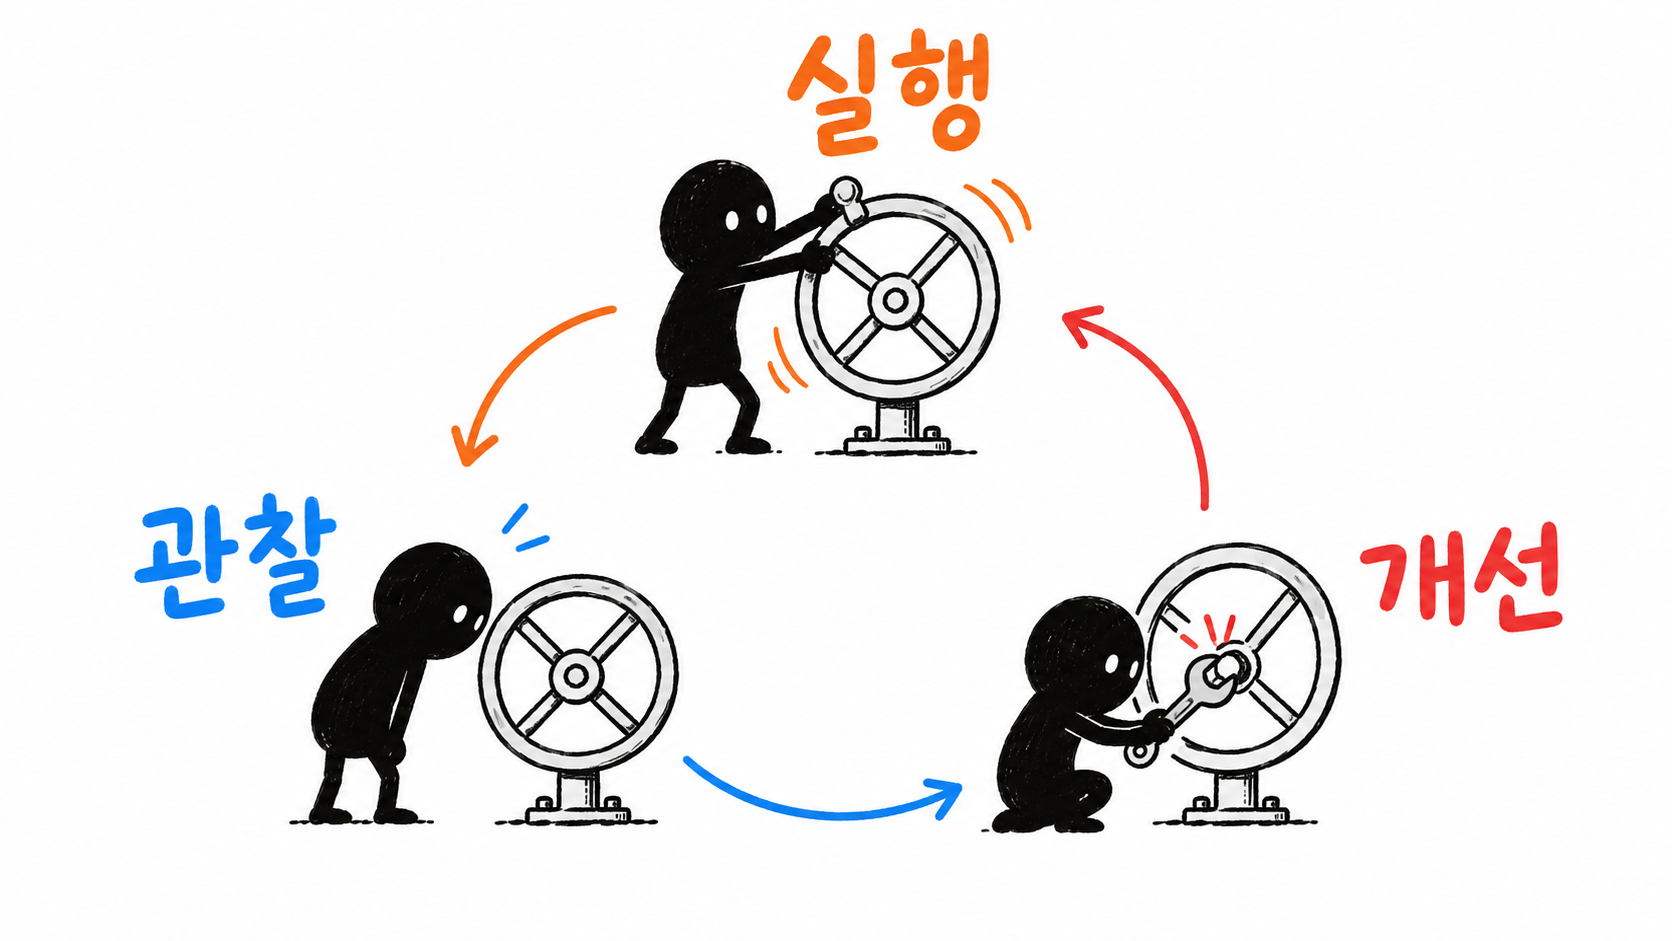
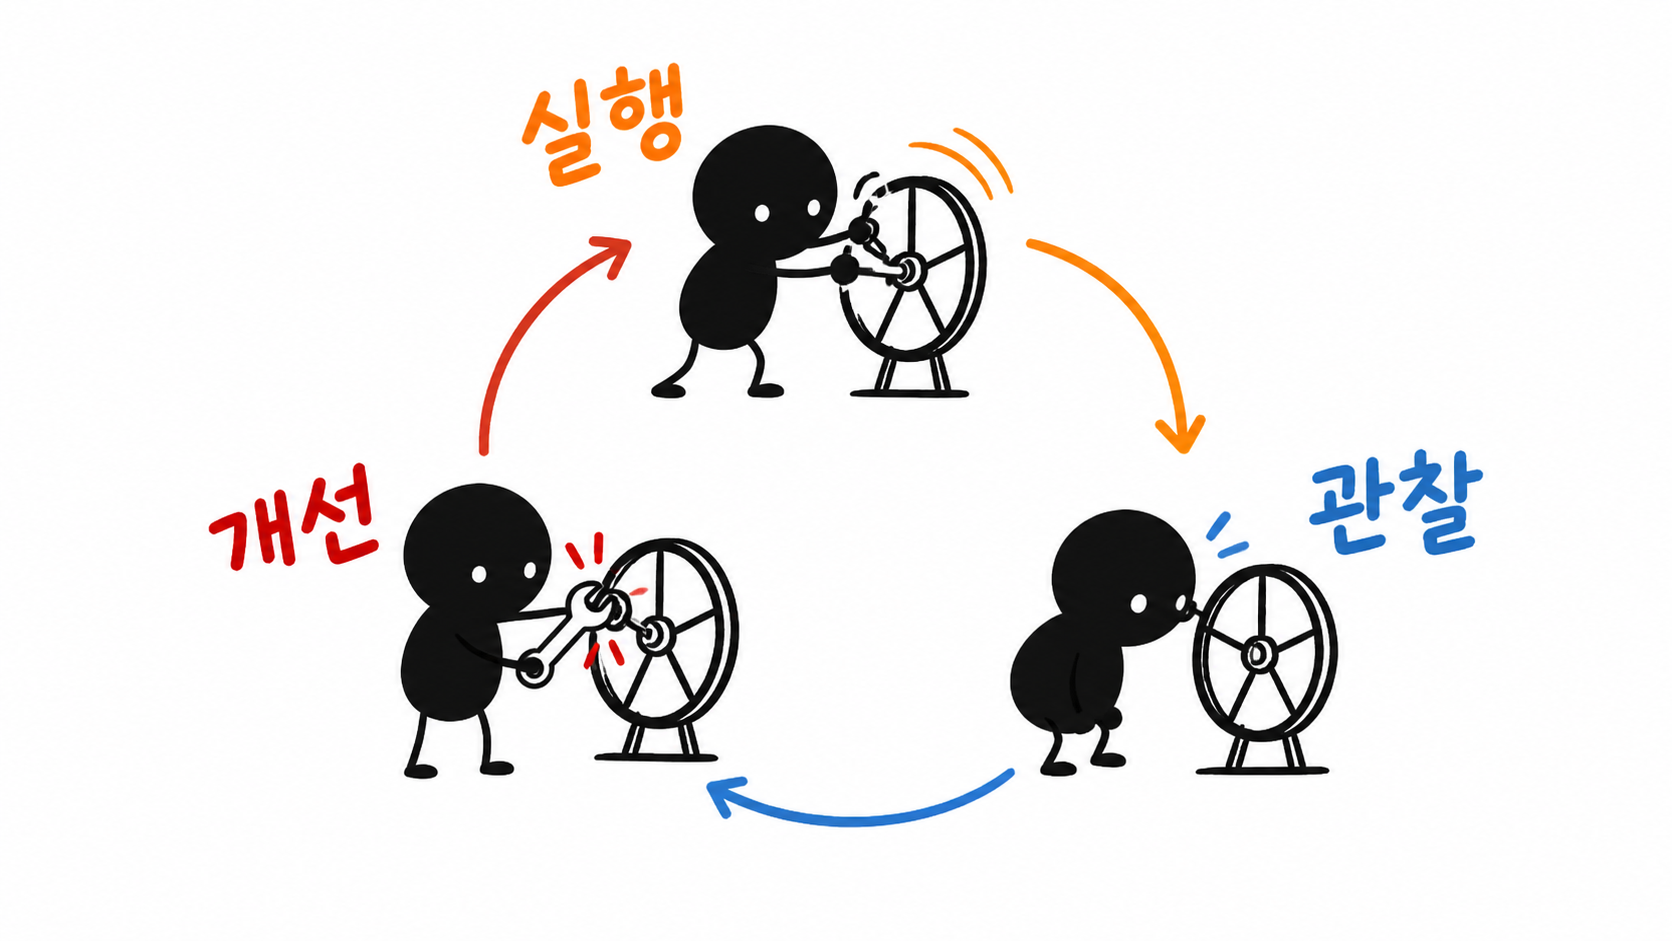
생성: 샤오헤이 참조 기반 예제 일러스트 갱신

Changed region(s): [[0.0622, 0.0308, 0.933, 0.8937]]

diff --git a/scripts/check_repository.py b/scripts/check_repository.py
@@ -22,10 +22,16 @@ def check(condition: bool, message: str) -> None:
         raise ValueError(message)
 
 
+def png_dimensions(path: Path) -> tuple[int, int]:
+    data = path.read_bytes()
+    check(len(data) >= 24 and data.startswith(PNG_SIGNATURE) and data[12:16] == b"IHDR", f"PNG 형식 오류: {path.name}")
+    return struct.unpack(">II", data[16:24])
+
+
 def validate() -> None:
     references = ("style-dna", "xiaohei-ip", "composition-patterns", "prompt-template", "qa-checklist")
     required = [ROOT / p for p in ("README.md", "AGENTS.md", "NOTICE.md", "LICENSE", "examples/prompts.md")]
-    required += [SKILL / p for p in ("SKILL.md", "LICENSE", "NOTICE.md", "agents/openai.yaml", "assets/examples/README.md")]
+    required += [SKILL / p for p in ("SKILL.md", "LICENSE", "NOTICE.md", "agents/openai.yaml", "assets/examples/README.md", "assets/reference/README.md", "assets/reference/xiaohei-character-reference.png")]
     required += [SKILL / "references" / (name + ".md") for name in references]
     check(all(p.is_file() for p in required), "필수 문서 또는 설치 파일이 없습니다.")
     packages = sorted(p.parent.relative_to(ROOT).as_posix() for p in ROOT.glob("*/SKILL.md"))
@@ -55,11 +61,13 @@ def validate() -> None:
     check({p.name for p in assets.iterdir()} == {"README.md", *(name + ".png" for name in EXAMPLES)}, "예제 폴더에 불필요한 파일이 있습니다.")
     catalog = (assets / "README.md").read_text(encoding="utf-8")
     for image in images:
-        data = image.read_bytes()
-        check(len(data) >= 24 and data.startswith(PNG_SIGNATURE) and data[12:16] == b"IHDR", f"PNG 형식 오류: {image.name}")
-        width, height = struct.unpack(">II", data[16:24])
+        width, height = png_dimensions(image)
         check(width > 0 and height > 0 and abs((width / height) - (16 / 9)) < 0.02, f"PNG 비율 오류: {image.name}")
         check(image.name in catalog, f"예제 목록과 PNG 파일명이 다릅니다: {image.name}")
+
+    reference = SKILL / "assets/reference/xiaohei-character-reference.png"
+    width, height = png_dimensions(reference)
+    check(1.5 < (width / height) < 2.5, "샤오헤이 참조 이미지 비율 오류")
 
     checked = 0
     for path in ROOT.rglob("*"):
@@ -80,12 +88,12 @@ def validate() -> None:
                 local = (path.parent / target.split("#", 1)[0]).resolve()
                 check(local.is_relative_to(ROOT) and local.exists(), f"끊어진 문서 링크: {path.name}: {target}")
         checked += 1
-    print(f"통과: 한국어 문서·설정·예제 {checked}개, PNG {len(images)}개, 스킬 이름·참조·라이선스·문서 링크")
+    print(f"통과: 한국어 문서·설정·예제 {checked}개, PNG {len(images)}개와 참조 이미지, 스킬 이름·참조·라이선스·문서 링크")
 
 
 if __name__ == "__main__":
     try:
         validate()
-    except (ValueError, OSError, ET.ParseError) as error:
+    except (ValueError, OSError, struct.error) as error:
         print(f"실패: {error}", file=sys.stderr)
         sys.exit(1)

diff --git a/README.md b/README.md
@@ -17,6 +17,7 @@
 - 일반적인 글은 4~8장의 장면 계획, 짧은 글은 1~3장.
 - 각 장면의 삽입 위치, 전달할 생각, 구성, 캐릭터 행동, 정확한 한글 표기.
 - 이미지 생성 도구로 만든 개별 PNG 파일. 기본 저장 위치는 `assets/<article-slug>-illustrations/`.
+- 모든 본문 그림 생성에 함께 첨부하는 샤오헤이 캐릭터 참조 이미지: [`xiaohei-character-reference.png`](xiaohei-illustrations/assets/reference/xiaohei-character-reference.png).
 
 계획만 요청하면 이미지를 생성하지 않습니다. 이미지 생성 기능이 없는 환경에서는 계획과 프롬프트만 제공하며, 생성하지 않은 이미지를 완성본이라고 안내하지 않습니다. SVG, HTML, PPTX, PDF 제작은 기본 결과물이 아닙니다.
 
@@ -104,6 +105,8 @@ $xiaohei-illustrations
 
 순백색 배경, 검은 손그림 선, 넓은 여백을 기본으로 합니다. 빨강은 문제와 강조, 주황은 주요 움직임, 파랑은 보조 설명에만 절제해 사용합니다. 한글 주석은 보통 3~5개, 최대 8개이며 각 주석은 짧은 단어 또는 어구로 씁니다.
 
+실제 이미지 생성 때는 [샤오헤이 참조 이미지](xiaohei-illustrations/assets/reference/xiaohei-character-reference.png)를 캐릭터 외형 전용 입력 이미지로 첨부합니다. 참조 이미지의 검은 몸, 흰 점 눈, 가느다란 팔다리와 담담한 인상만 유지하고, 자세·배경·소품은 현재 장면에 맞게 새로 만듭니다.
+
 그림에 요청하지 않은 제목, 개인 서명, 연락처, 홍보 문구, QR 코드를 넣지 않습니다. 한글 오탈자와 깨진 글자는 생성 후 직접 확인하고 수정합니다. 읽을 수 없는 글자를 삭제하거나 영문으로 바꾸는 것으로 한국어 검수를 대신하지 않습니다.
 
 ## 폴더 안내
@@ -122,6 +125,7 @@ $xiaohei-illustrations
     ├── NOTICE.md
     ├── agents/openai.yaml
     ├── assets/examples/         # 이미지 생성 도구로 만든 한글 PNG 예제 8개
+    ├── assets/reference/        # 샤오헤이 일관성 참조 이미지
     └── references/              # 스타일·캐릭터·구성·프롬프트·검수
 ```
 

diff --git a/xiaohei-illustrations/references/prompt-template.md b/xiaohei-illustrations/references/prompt-template.md
@@ -16,6 +16,11 @@
 담담하고 진지한 표정을 가진 캐릭터다.
 샤오헤이가 핵심 행동을 직접 수행해야 하며 옆에서 구경만 하지 않는다.
 
+캐릭터 참조 이미지:
+`assets/reference/xiaohei-character-reference.png`를 Image 1의 캐릭터 외형 참조로 첨부한다.
+참조 이미지의 검은 몸, 흰 점 눈, 가느다란 팔다리, 단순한 실루엣과 담담한 인상만 유지한다.
+참조 이미지의 자세, 배경, 소품, 배치와 구도는 복제하지 않고 현재 장면을 새로 구성한다.
+
 주제: {그림의 주제}
 핵심 생각: {독자가 이해해야 할 한 가지 생각}
 구성 유형: {작업 흐름 / 전후 비교 / 개념 비유 등. 그림에는 쓰지 않음}
@@ -36,7 +41,7 @@
 한 장에 하나의 핵심 생각. 주요 장면은 화면의 약 40~60%.
 최소 35%는 빈 흰 공간. 한글 주석은 보통 3~5개, 최대 8개.
 개인 이름, 서명, 로고, 연락처, 홍보 문구, QR 코드를 넣지 않는다.
-특정 예제를 재현하라는 요청이 없으면 새로운 물건과 행동으로 구성한다.
+특정 예제를 재현하라는 요청이 없으면 새로운 물건과 행동으로 구성한다. 참조 이미지는 캐릭터 외형에만 사용한다.
 ```
 
 ## 제목 또는 문구 제거

diff --git a/AGENTS.md b/AGENTS.md
@@ -5,6 +5,7 @@
 - 개인 소개, 연락처, 소셜 계정, 홍보 링크, QR 이미지와 개인명 접두사를 추가하지 않는다.
 - `LICENSE`의 원본 저작권·허가 고지를 보존하고 설치 폴더에도 동일하게 동봉한다.
 - 예제 원본은 `xiaohei-illustrations/assets/examples/` 한 곳에서만 관리한다. 실제 이미지 생성 도구로 만든 PNG만 AI 생성 결과로 소개한다.
+- 샤오헤이의 일관성 참조는 `xiaohei-illustrations/assets/reference/xiaohei-character-reference.png`를 사용하고, 참조 이미지의 장면·소품·배치를 복제하지 않는다.
 - 실제 그림 생성은 사용 가능한 이미지 생성 도구로 수행한다. 도구가 없으면 생성했다고 주장하지 않는다.
 - 변경 후 `python3 scripts/check_repository.py`를 실행한다. 스킬의 참조 문서는 필요한 것만 읽는다.
 - 사용자에게는 변경 내용과 검증 결과, 남은 제한을 한국어로 짧고 쉽게 설명한다.

diff --git a/xiaohei-illustrations/references/xiaohei-ip.md b/xiaohei-illustrations/references/xiaohei-ip.md
@@ -8,6 +8,8 @@
 
 검은색으로 채운 작고 약간 불규칙한 몸, 흰 점 눈, 가느다란 다리와 필요할 때만 쓰는 팔이 특징이다. 몸은 콩, 상자, 원통, 그림자처럼 장면에 맞게 달라질 수 있다. 표정은 담담하고 진지하며 눈을 반짝이게 꾸미지 않는다.
 
+실제 이미지 생성에서는 `assets/reference/xiaohei-character-reference.png`를 외형 참조로 첨부한다. 참조 이미지의 검은 몸, 흰 점 눈, 가느다란 팔다리와 담담한 인상은 유지하되, 자세·배경·소품은 현재 장면에 맞게 새로 만든다.
+
 ## 행동
 
 자료를 나르기, 필요한 것을 걸러내기, 고장 난 곳을 고치기, 문을 지키기, 장치를 돌리기, 무게를 재기, 끊어진 부분을 잇기, 기록하기처럼 의미를 설명하는 일을 맡긴다. 행동은 조금 엉뚱해도 물리적 관계와 글의 뜻은 이해할 수 있어야 한다.

diff --git a/NOTICE.md b/NOTICE.md
@@ -6,4 +6,6 @@
 
 설치 폴더에 동봉된 `assets/examples/`의 PNG 8개는 이미지 생성 도구로 새로 만든 장면 구성 및 한글 표기 예시입니다. 순백색 배경, 16:9 비율, 샤오헤이의 핵심 행동과 한글 표기를 직접 검수했습니다.
 
+`assets/reference/xiaohei-character-reference.png`는 이미지 생성 도구로 만든 샤오헤이 캐릭터 참조 이미지입니다. 이후 본문 그림 생성에서 캐릭터 외형을 맞추는 입력 이미지로 사용하며, 참조 이미지의 장면과 소품을 그대로 복제하지 않습니다.
+
 원본 소프트웨어의 저작권 고지와 이용 조건은 같은 디렉터리의 `LICENSE`에 보존합니다. 저장소 루트와 설치용 스킬 폴더 모두에 라이선스를 동봉합니다. 이 수정은 새로운 권리 소유나 원저작자의 보증을 주장하지 않습니다.

diff --git a/xiaohei-illustrations/NOTICE.md b/xiaohei-illustrations/NOTICE.md
@@ -6,4 +6,6 @@
 
 설치 폴더에 동봉된 `assets/examples/`의 PNG 8개는 이미지 생성 도구로 새로 만든 장면 구성 및 한글 표기 예시입니다. 순백색 배경, 16:9 비율, 샤오헤이의 핵심 행동과 한글 표기를 직접 검수했습니다.
 
+`assets/reference/xiaohei-character-reference.png`는 이미지 생성 도구로 만든 샤오헤이 캐릭터 참조 이미지입니다. 이후 본문 그림 생성에서 캐릭터 외형을 맞추는 입력 이미지로 사용하며, 참조 이미지의 장면과 소품을 그대로 복제하지 않습니다.
+
 원본 소프트웨어의 저작권 고지와 이용 조건은 같은 디렉터리의 `LICENSE`에 보존합니다. 저장소 루트와 설치용 스킬 폴더 모두에 라이선스를 동봉합니다. 이 수정은 새로운 권리 소유나 원저작자의 보증을 주장하지 않습니다.

diff --git a/xiaohei-illustrations/assets/reference/README.md b/xiaohei-illustrations/assets/reference/README.md
@@ -1,0 +1,5 @@
+# 샤오헤이 참조 이미지
+
+`xiaohei-character-reference.png`는 이미지 생성 도구로 만든 샤오헤이 캐릭터 참조 이미지입니다. 본문 그림을 생성할 때마다 캐릭터 외형을 고정하는 입력 이미지로 첨부합니다.
+
+참조 이미지에서 유지할 것은 작고 검은 몸, 흰 점 눈, 가느다란 팔다리, 단순한 실루엣과 담담한 인상입니다. 참조 이미지의 자세, 배경, 배치와 소품은 복제하지 않고 현재 본문의 장면에 맞게 새로 구성합니다.

diff --git a/xiaohei-illustrations/references/qa-checklist.md b/xiaohei-illustrations/references/qa-checklist.md
@@ -4,6 +4,7 @@
 
 - [ ] 16:9 가로형이며 깨끗한 순백색 배경이다.
 - [ ] 샤오헤이가 핵심 행동을 직접 수행한다.
+- [ ] 샤오헤이의 검은 몸, 흰 점 눈, 가느다란 팔다리와 담담한 인상이 참조 이미지와 일치한다.
 - [ ] 현재 글의 의미를 표현하며 요청하지 않은 예제 복제가 아니다.
 - [ ] 한 장에 핵심 생각이 하나뿐이고 물건과 화살표가 과하지 않다.
 - [ ] 주요 장면이 화면의 약 60%를 넘지 않으며 넓은 여백이 있다.
